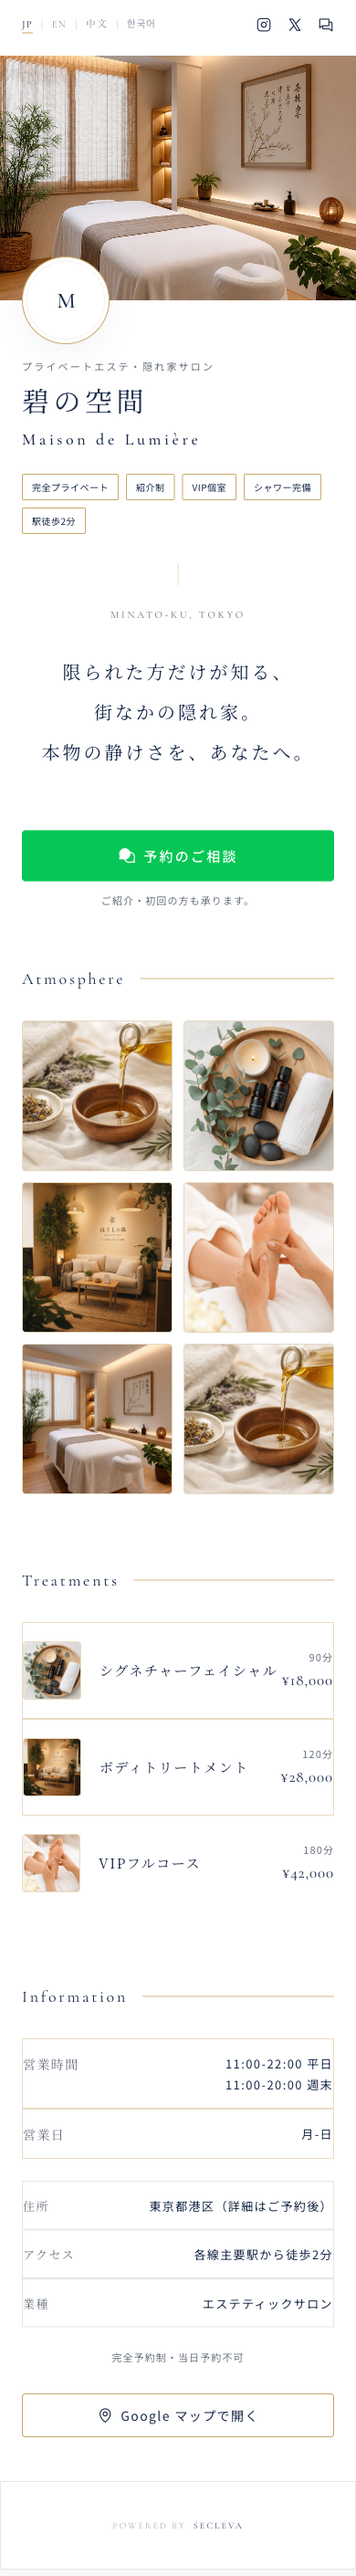
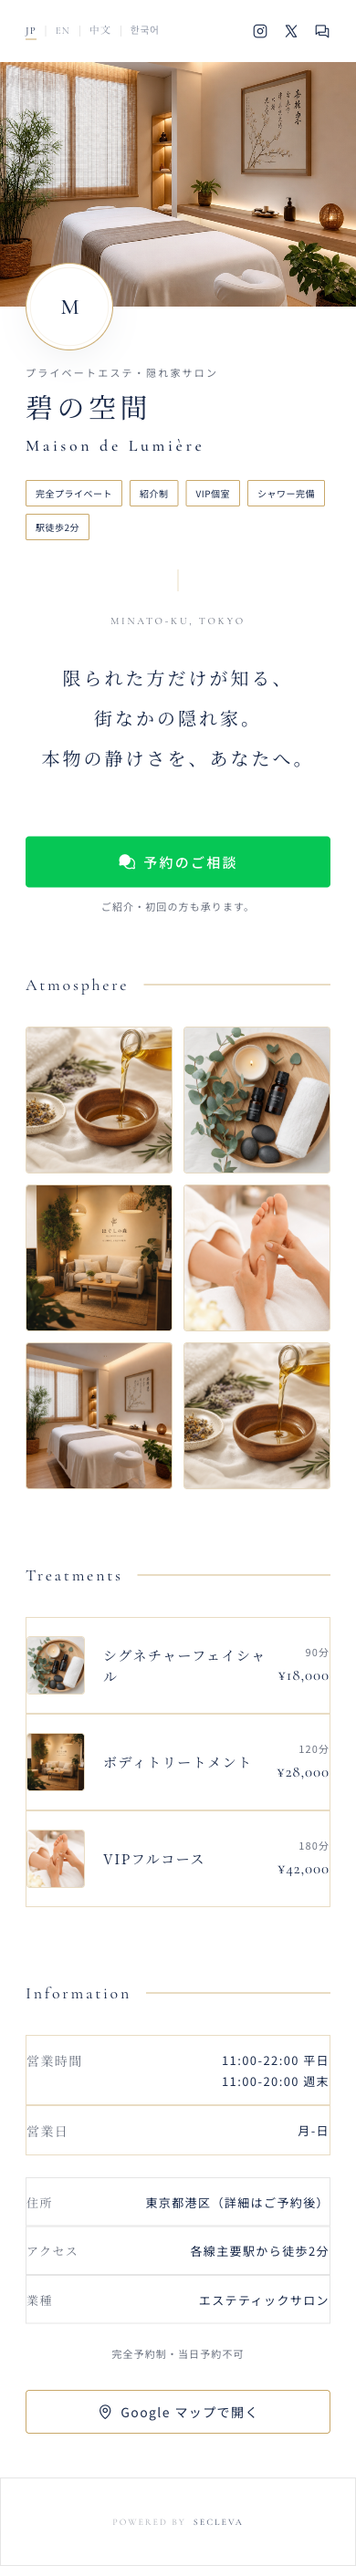
fix(T4): 左右パディング+4px(px-6→px-7) / VIPフルコース罫線追加 / ロゴ位置を新padding基準にアライン

diff --git a/shop-page/templates/T4_elegant.html b/shop-page/templates/T4_elegant.html
@@ -38,7 +38,7 @@
     <main class="w-full max-w-[430px] bg-white min-h-[100dvh] relative overflow-x-hidden shadow-[0_0_50px_rgba(0,0,0,0.05)]">
 
         <!-- 1. Top Utility Bar -->
-        <header class="flex justify-between items-center px-6 py-5 bg-white relative z-10">
+        <header class="flex justify-between items-center px-7 py-5 bg-white relative z-10">
             <div class="flex items-center gap-2.5 text-[11px] tracking-widest font-serif-en text-navy">
                 <button class="relative pb-[2px]">JP<span class="absolute bottom-0 left-0 w-full h-[1px] bg-gold"></span></button>
                 <span class="w-px h-3 bg-hairline"></span>
@@ -58,7 +58,7 @@
         <!-- 2. Main Visual -->
         <section class="relative w-full aspect-[16/11]">
             <img src="../../branding/dummy/salon/01_hero.webp" alt="" class="w-full h-full object-cover">
-            <div class="absolute -bottom-12 left-6 w-24 h-24 bg-white rounded-full border border-gold shadow-hero z-20 flex items-center justify-center p-1">
+            <div class="absolute -bottom-12 left-7 w-24 h-24 bg-white rounded-full border border-gold shadow-hero z-20 flex items-center justify-center p-1">
                 <div class="w-full h-full border-[0.5px] border-gold/30 rounded-full flex items-center justify-center">
                     <span class="font-serif-en text-2xl tracking-tighter text-navy font-medium">M</span>
                 </div>
@@ -66,7 +66,7 @@
         </section>
 
         <!-- 3. Header Info -->
-        <section class="pt-16 pb-8 px-6">
+        <section class="pt-16 pb-8 px-7">
             <div class="flex flex-col gap-1">
                 <span class="text-[11px] tracking-[0.2em] text-text-sec">プライベートエステ・隠れ家サロン</span>
                 <h1 class="font-serif-jp text-navy text-3xl tracking-[0.15em] leading-snug font-normal mt-1">碧の空間</h1>
@@ -82,7 +82,7 @@
         </section>
 
         <!-- 4. Address & Catchcopy -->
-        <section class="px-6 py-12 relative">
+        <section class="px-7 py-12 relative">
             <div class="absolute top-0 left-1/2 -translate-x-1/2 w-[1px] h-6 bg-gold/40"></div>
             <p class="text-[11px] text-text-sec mb-8 tracking-[0.25em] text-center uppercase font-serif-en">Minato-ku, Tokyo</p>
             <h3 class="font-serif-jp text-xl leading-[2.2] tracking-[0.15em] text-center text-navy font-normal">
@@ -91,7 +91,7 @@
         </section>
 
         <!-- 5. Primary CTA -->
-        <section class="px-6 py-4">
+        <section class="px-7 py-4">
             <button class="w-full h-[56px] bg-line rounded-[4px] text-white flex items-center justify-center gap-2 font-medium tracking-[0.15em] text-[15px] active-push">
                 <i class="ph-fill ph-chats-circle text-[20px]"></i>
                 予約のご相談
@@ -100,7 +100,7 @@
         </section>
 
         <!-- 6. Gallery -->
-        <section class="px-6 py-12">
+        <section class="px-7 py-12">
             <div class="flex items-center gap-4 mb-8">
                 <h4 class="font-serif-en text-lg tracking-[0.15em] text-navy">Atmosphere</h4>
                 <div class="flex-grow h-px hairline-gold"></div>
@@ -116,7 +116,7 @@
         </section>
 
         <!-- 7. Menu -->
-        <section class="px-6 py-8">
+        <section class="px-7 py-8">
             <div class="flex items-center gap-4 mb-8">
                 <h4 class="font-serif-en text-lg tracking-[0.15em] text-navy">Treatments</h4>
                 <div class="flex-grow h-px hairline-gold"></div>
@@ -138,7 +138,7 @@
                         <span class="font-serif-en tracking-wider text-[17px] text-navy">¥28,000</span>
                     </div>
                 </div>
-                <div class="flex items-center py-5">
+                <div class="flex items-center py-5 border-b hairline-gold">
                     <img src="../../branding/dummy/salon/05_foot.webp" alt="" class="w-16 h-16 rounded-[4px] object-cover hairline-gold shrink-0">
                     <div class="ml-4 flex-grow"><h5 class="font-serif-jp text-[15px] text-navy tracking-widest pl-1">VIPフルコース</h5></div>
                     <div class="text-right shrink-0">
@@ -150,7 +150,7 @@
         </section>
 
         <!-- 8 + 9. Hours & Access -->
-        <section class="px-6 py-12">
+        <section class="px-7 py-12">
             <div class="flex items-center gap-4 mb-8">
                 <h4 class="font-serif-en text-lg tracking-[0.15em] text-navy">Information</h4>
                 <div class="flex-grow h-px hairline-gold"></div>
